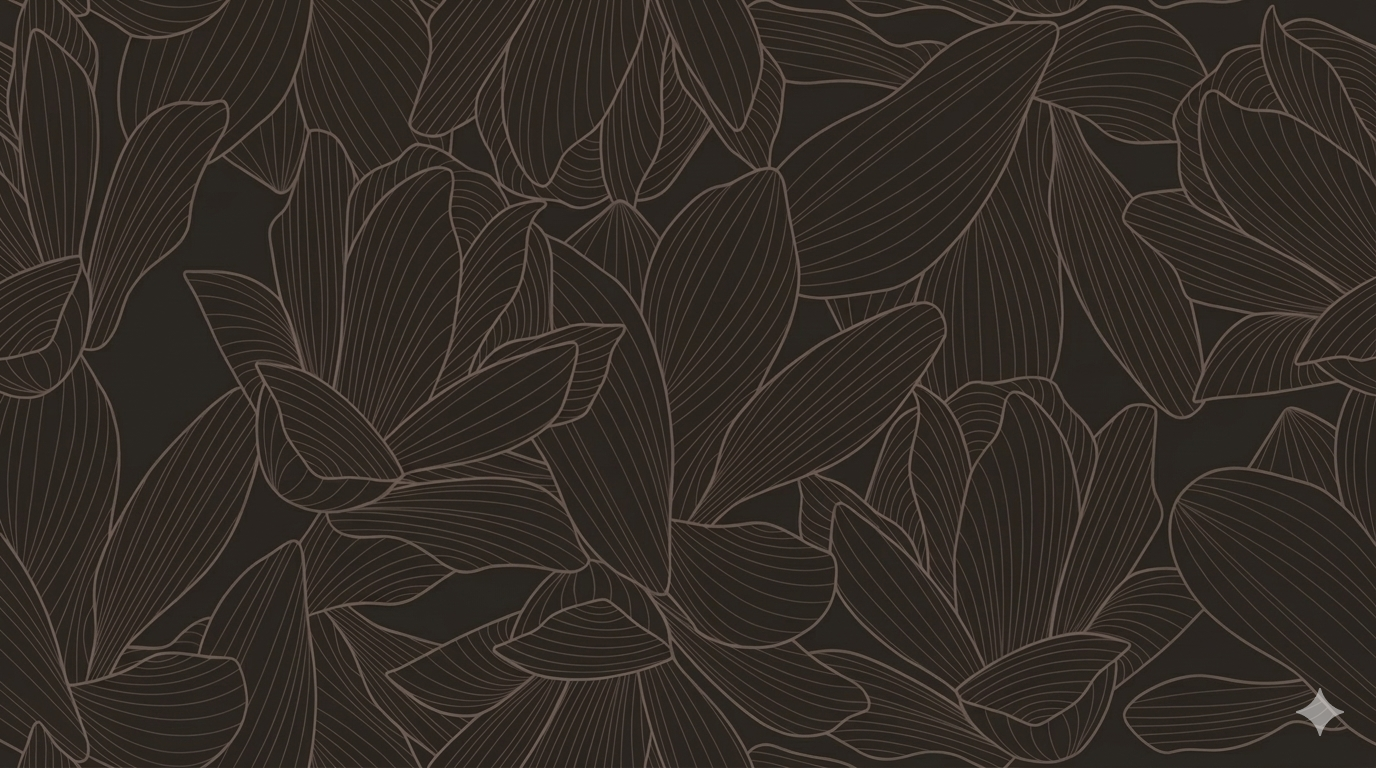
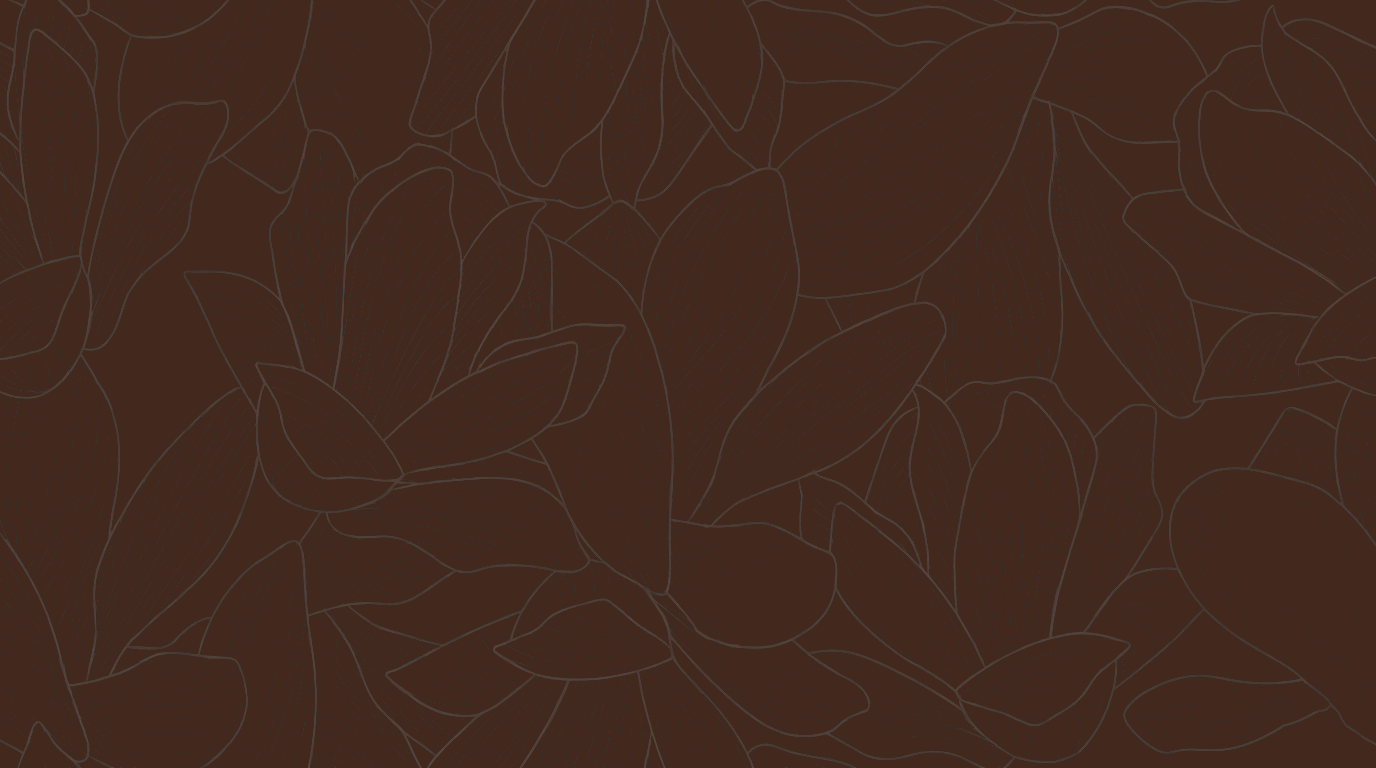
atualiza imagens

diff --git a/assets/css/style.css b/assets/css/style.css
@@ -131,15 +131,16 @@ main {
     .salao-aquarela {
         display: block;
         width: 100%;
-        height: 82vh;
+        height: 78vh;
         aspect-ratio: 1 / 1;
         margin-bottom: 20px;
         opacity: 0;
         transition: opacity 0.4s ease;
 
         @media (min-width: 768px) {
-            width: auto;
-            height: 70vh;
+            max-width: 768px;
+            width: 100%;
+            height: auto;
             aspect-ratio: auto;
             margin: 0 auto;
         }
@@ -677,6 +678,7 @@ main {
             display: flex;
             flex-direction: column;
             gap: 16px;
+            width: 100%;
         }
 
         .form-group {
